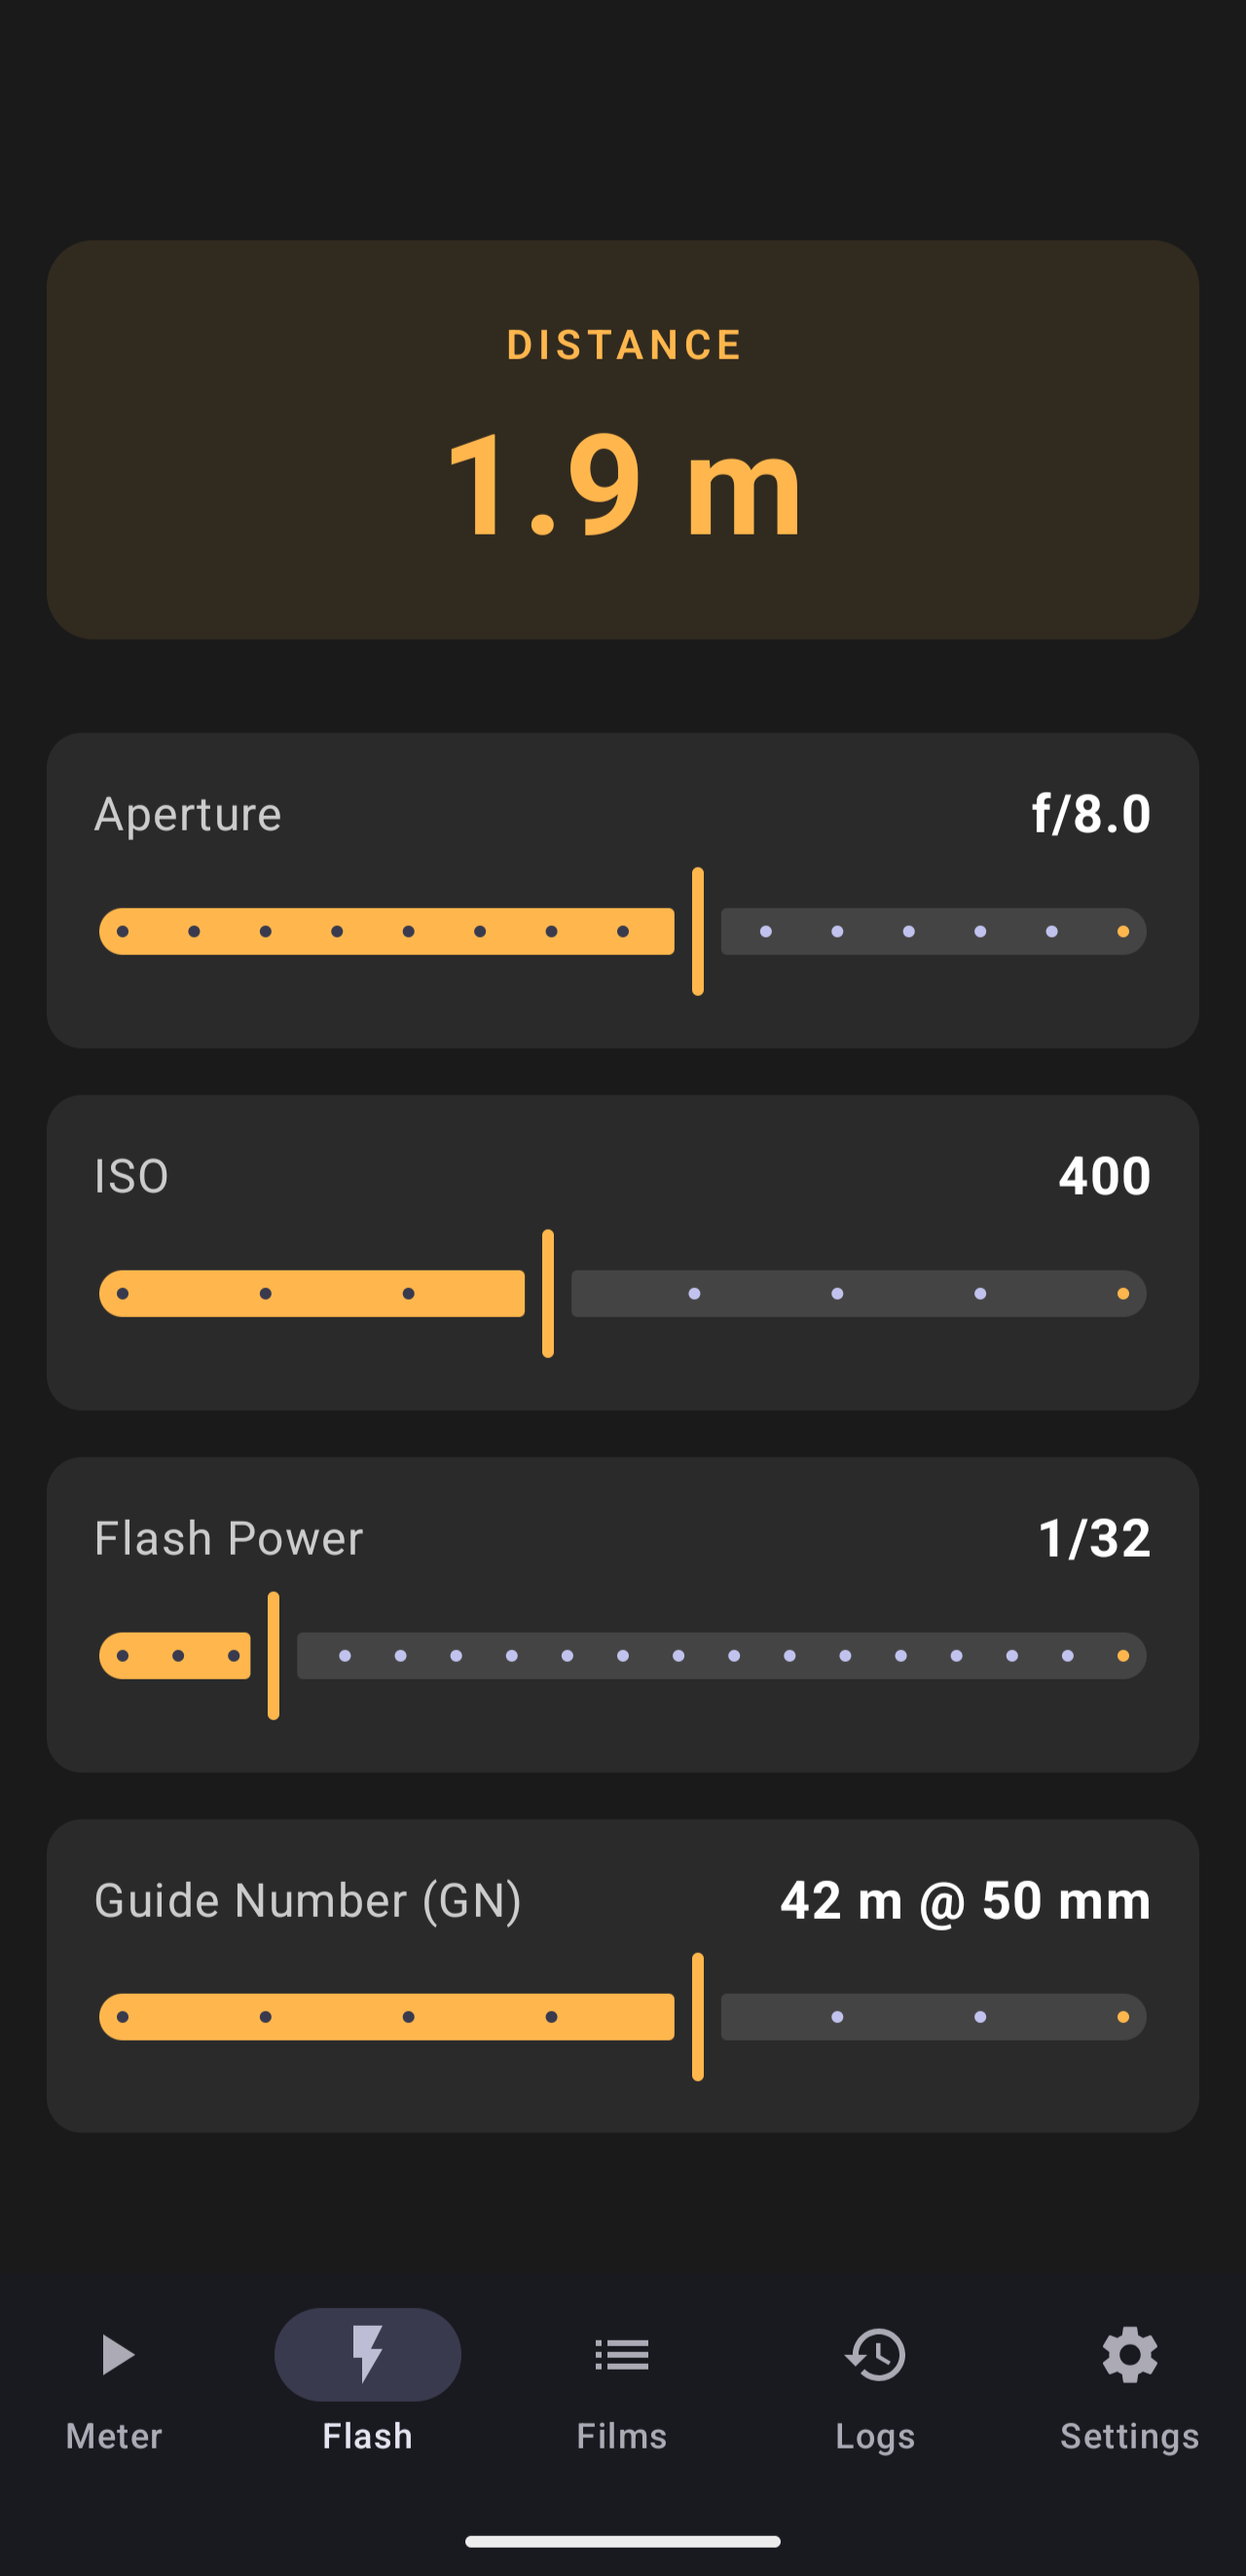
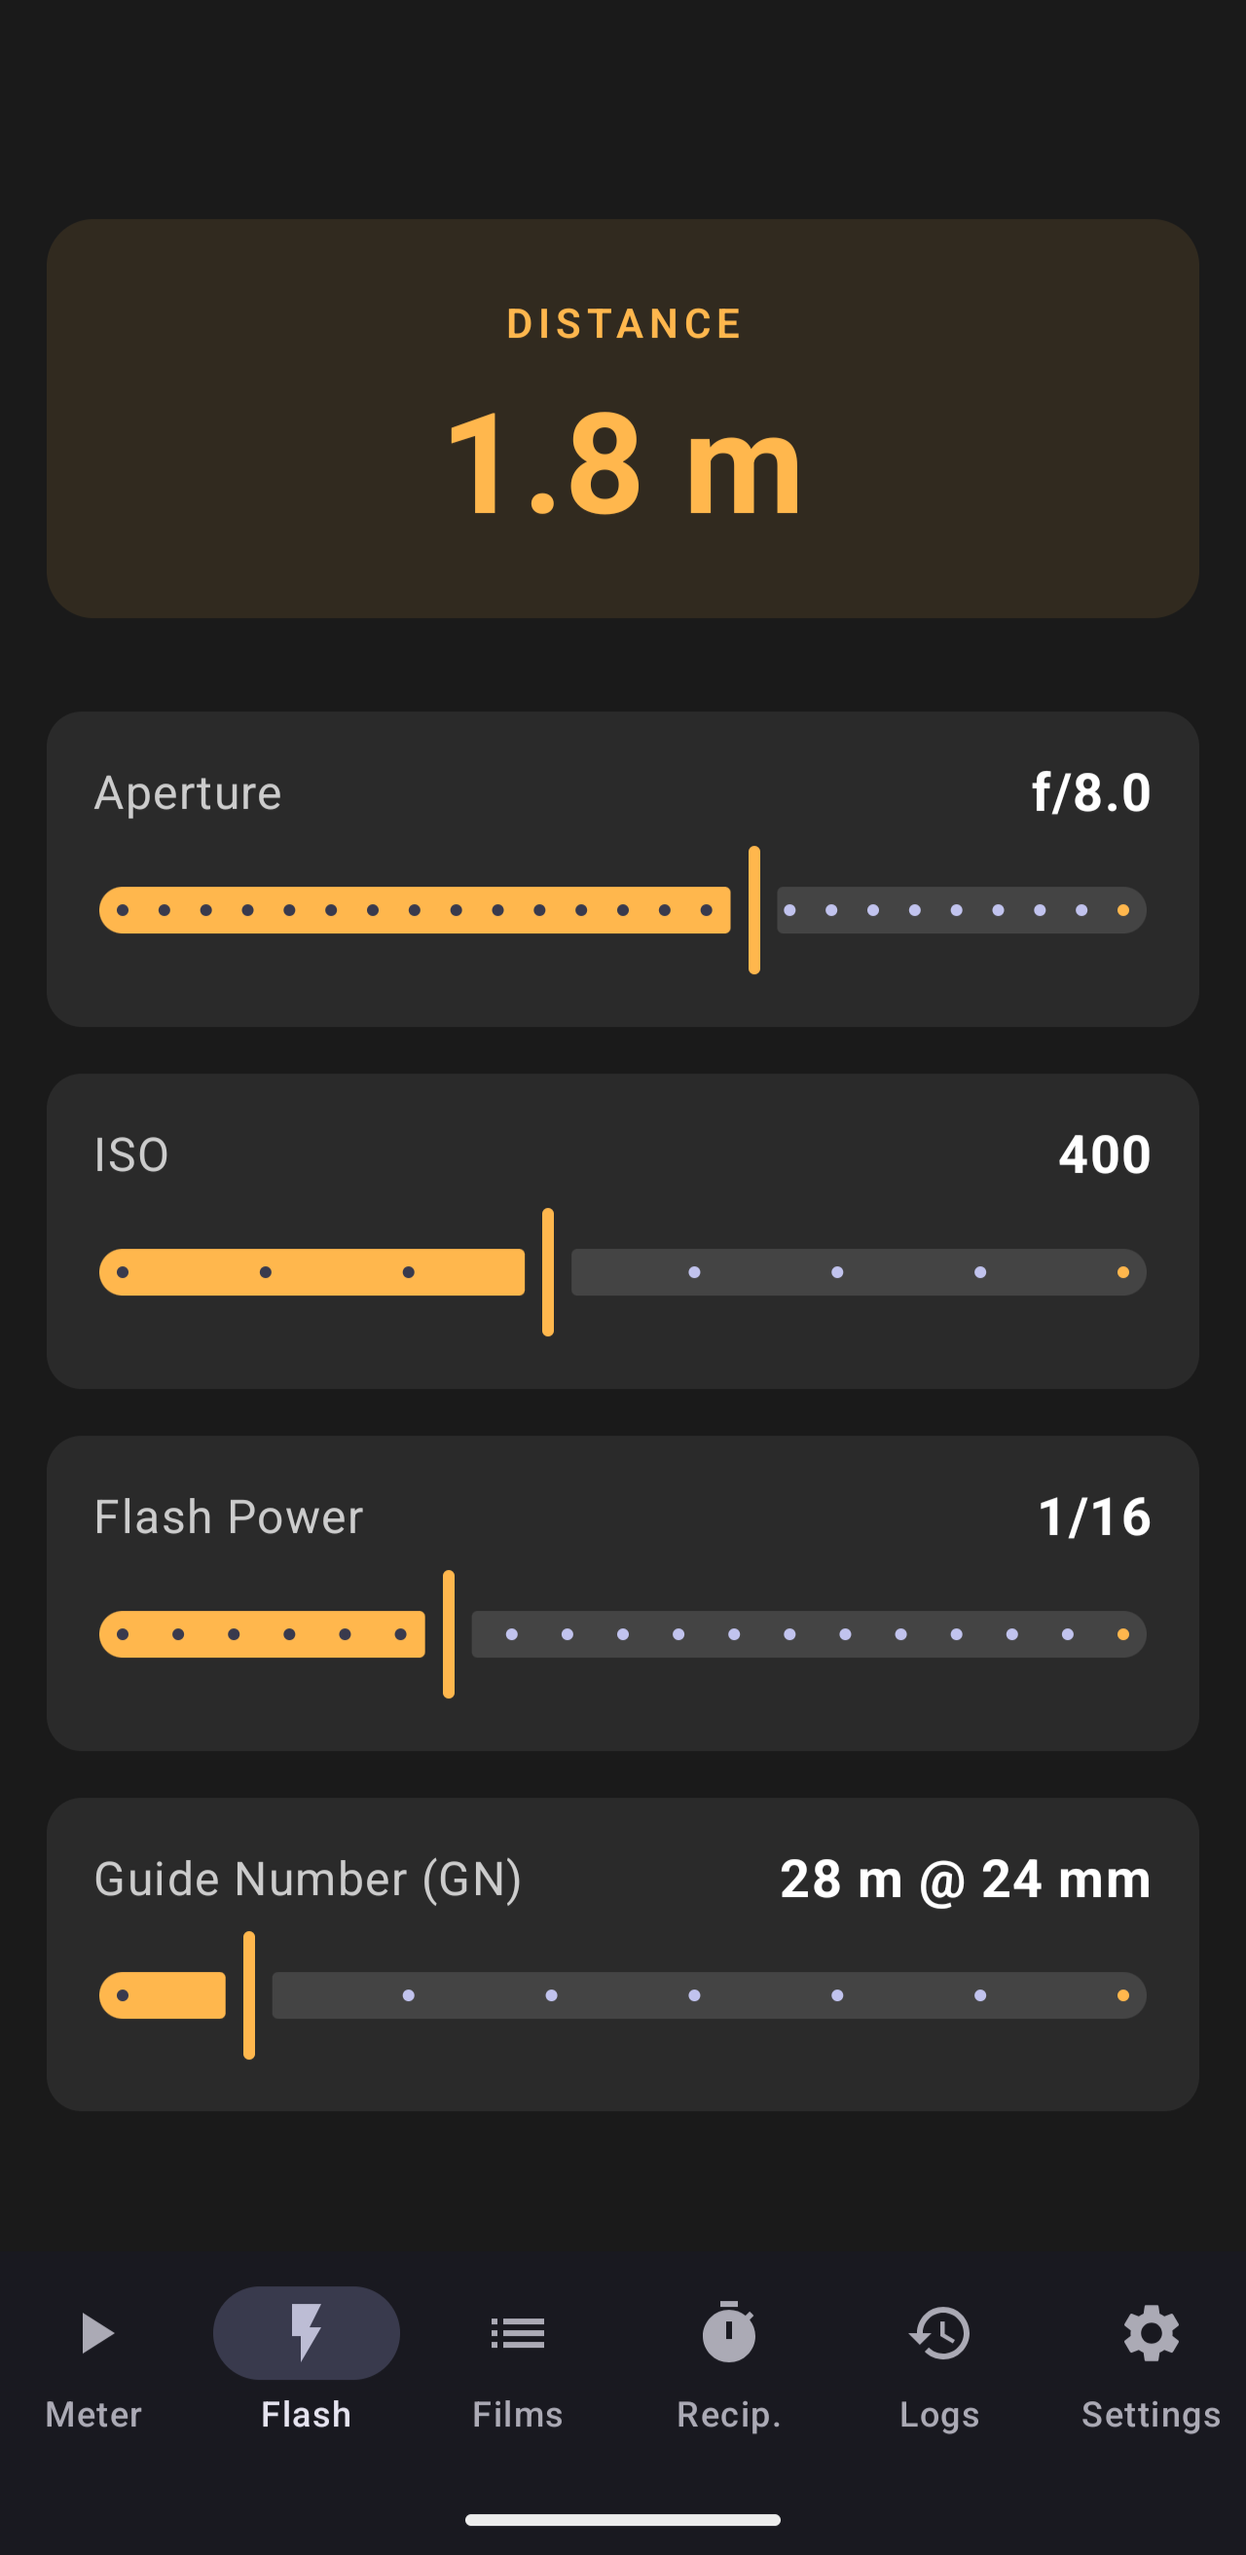
Update README with new features and expand reciprocity data for additional film stocks

diff --git a/app/src/main/java/com/example/lightluxmeter/domain/ReciprocityData.kt b/app/src/main/java/com/example/lightluxmeter/domain/ReciprocityData.kt
@@ -23,24 +23,45 @@ object ReciprocityData {
         FilmStock("Kodak Ektar 100", 1.30),
         FilmStock("Kodak Gold 200", 1.33),
         FilmStock("Kodak ColorPlus 200", 1.33),
+        FilmStock("Kodak UltraMax 400", 1.33), 
 
         // Kodak B&W
         FilmStock("Kodak T-Max 100", 1.15),
         FilmStock("Kodak T-Max 400", 1.15),
-        FilmStock("Kodak Tri-X 400", 1.54),
+        FilmStock("Kodak Tri-X 400", 1.33),
 
-        // Ilford B&W
+        // Ilford / Harman B&W
         FilmStock("Ilford HP5 Plus 400", 1.31),
-        FilmStock("Ilford FP4 Plus 125", 1.30),
+        FilmStock("Ilford FP4 Plus 125", 1.40),
         FilmStock("Ilford Delta 100", 1.26),
+        FilmStock("Ilford Delta 400", 1.33),
         FilmStock("Ilford Delta 3200", 1.33),
+        FilmStock("Ilford XP2 Super 400", 1.31), 
+        FilmStock("Ilford SFX 200", 1.33),       
+        FilmStock("Kentmere Pan 100", 1.33),
+        FilmStock("Kentmere Pan 200", 1.32),
+        FilmStock("Kentmere Pan 400", 1.31),
+        FilmStock("Harman Phoenix 200", 1.35), 
 
         // Fujifilm
-        FilmStock("Fujifilm Superia 400", 1.33),
+        FilmStock("Fujifilm Neopan Acros 100 II", 1.00),
+        FilmStock("Fujifilm Provia 100F", 1.10),
+        FilmStock("Fujifilm Velvia 50", 1.20),
+        FilmStock("Fujifilm 200 (New)", 1.33),
+        FilmStock("Fujifilm 400 (New)", 1.33),
+        FilmStock("Fujifilm Superia Premium 400", 1.33),
         FilmStock("Fujifilm C200", 1.33),
 
-        // CineStill
-        FilmStock("CineStill 800T", 1.30)
+        // CineStill / Vision3
+        FilmStock("CineStill 800T", 1.30),
+        FilmStock("CineStill 50D", 1.30),
+        FilmStock("CineStill 400D", 1.30),
+
+        // Other
+        FilmStock("Lucky Color C200", 1.35),
+        FilmStock("Fomapan 100", 1.54),
+        FilmStock("Lomography Color 100", 1.30),
+        FilmStock("Lomography Color 400/800", 1.33)
     )
 
     /**

diff --git a/app/src/main/java/com/example/lightluxmeter/domain/LuminosityAnalyzer.kt b/app/src/main/java/com/example/lightluxmeter/domain/LuminosityAnalyzer.kt
@@ -10,12 +10,6 @@ import kotlin.math.log2
 import kotlin.math.pow
 import kotlin.math.roundToInt
 
-// TODOs resolved in this version:
-// ✓ F-stop 1/2 and 1/3 steps
-// ✓ Ability to set aperture or shutter and modify the other
-// ✓ Reciprocity calculator
-// ✓ 60/40 center-weighted metering
-
 enum class MeteringMode { SPOT, CENTER_WEIGHTED }
 
 class LuminosityAnalyzer(private val listener: (luma: Double) -> Unit) : ImageAnalysis.Analyzer {

diff --git a/README.md b/README.md
@@ -5,9 +5,10 @@
 ### Screenshots
 
 <p align="center">
-  <img src="screenshots/main.png" width="30%" />
-  <img src="screenshots/flash.png" width="30%" />
-  <img src="screenshots/pictures.png" width="30%" /> 
+  <img src="screenshots/main.png" width="35%" />
+  <img src="screenshots/flash.png" width="35%" />
+  <img src="screenshots/pictures.png" width="35%" /> 
+  <img src="screenshots/reciprocity.png" width="35%" />
 </p>
 
 ## ✨ Key Features
@@ -17,11 +18,13 @@
 - **Scientific Measurement**: Measures intensity in **LUX** and computes exposure in **EV (Exposure Value)**.
 - **Dynamic Stability**: Implements 0.5s continuous background buffering for smooth, reliable readings without jitter.
 - **Tap-to-Meter**: Intuitive focus and metering by tapping anywhere on the camera preview.
+- **Metering Modes**: Switch between precision Spot Metering (5% area) and classic 60/40 Center-Weighted metering.
 - **Lock System**: Lock your readings to securely calculate settings without sensor interference.
 
 ### 🔹 2. Advanced Exposure Calculator
 
 - **Film Parameters**: Quick selection of ISO (50-6400), Aperture (f/1.8-f/22), and Shutter Speed.
+- **Priority Modes**: Set your desired aperture or shutter speed, and the app seamlessly calculates the corresponding value.
 - **Focal Length Simulation**: A custom, non-linear zoom bar (26mm to 390mm) with **gradual control** (75% of the slider for the common 26-150mm range).
 - **Step-Adjustable Speed**: Choose between 1, 1/2, or 1/3 exposure steps in settings.
 
@@ -33,6 +36,7 @@
 
 ### 🔹 4. Specialized Tools
 
+- **Reciprocity Failure Calculator**: Automatically calculate long exposure compensation for an extensive database of popular film stocks (Kodak, Ilford, Fujifilm, CineStill, etc.).
 - **Flash Guide Number Calculator**: Quickly determine the required aperture or distance for your external flash.
 - **Film Gallery Integration**: Browse stunning film photography inspiration, powered by the **Unsplash API** using Retrofit and HTTPS.
 
